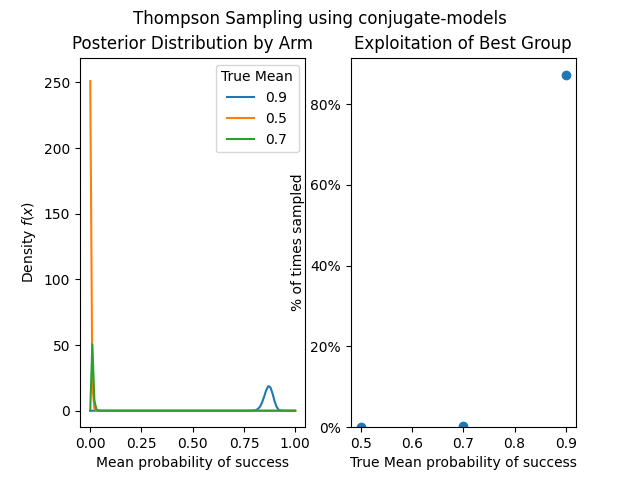
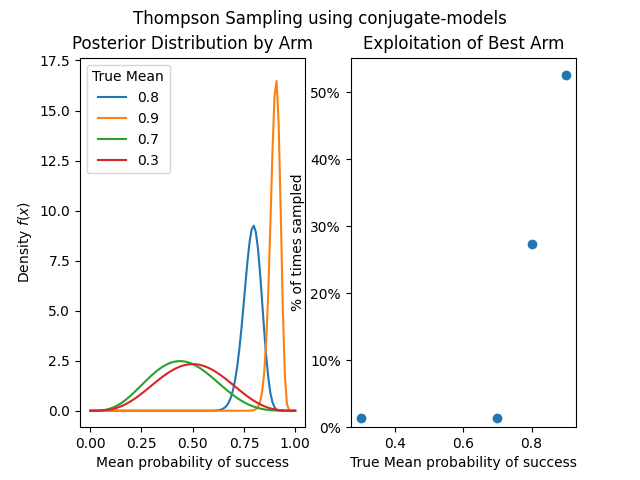
using binomial_beta in thompson_step

diff --git a/docs/examples/bandit.md b/docs/examples/bandit.md
@@ -1,3 +1,5 @@
+from conjugate.models import binomial_beta
+
 # The multi-armed bandit problem
 
 We will assume a Bernoulli distribution of successes for each arm
@@ -15,13 +17,14 @@ import numpy as np
 import matplotlib.pyplot as plt
 
 # Define true probabilities of success for each arm
-p = np.array([0.9, 0.5, 0.7])
+p = np.array([0.8, 0.9, 0.7, 0.3])
 n_arms = len(p)
 true_dist = Binomial(n=1, p=p)
 
 ```
 
 Helper functions:
+
 - sampling from the true distribution of given arm
 - create the statistics required for Bayesian update of exponential gamma model
 - single step in the Thompson sampling process
@@ -56,14 +59,15 @@ def thompson_step(estimate: Beta, rng) -> Beta:
     arm_sample = sample_true_distribution(arm_to_sample, rng=rng)
     x, n = bayesian_update_stats(arm_to_sample, arm_sample)
 
-    return bernoulli_beta(x=x, prior=estimate)
+    return binomial_beta(n=n,x=x, prior=estimate)
 ```
 
 After defining a prior / initial estimate for each of the distributions, we can use a for loop in
 order to perform the Thompson sampling and progressively update this estimate.
 
 ```python
-alpha = beta = np.ones(n_arms)
+alpha = np.ones(n_arms)*0.5
+beta = np.ones(n_arms)*0.5
 estimate = Beta(alpha, beta)
 
 rng = np.random.default_rng(42)
@@ -95,7 +99,7 @@ ax.set(
     xlabel="True Mean probability of success",
     ylabel="% of times sampled",
     ylim=(0, None),
-    title="Exploitation of Best Group",
+    title="Exploitation of Best Arm",
 )
 # Format yaxis as percentage
 ax.yaxis.set_major_formatter(plt.FuncFormatter(lambda x, _: f"{x:.0%}"))
